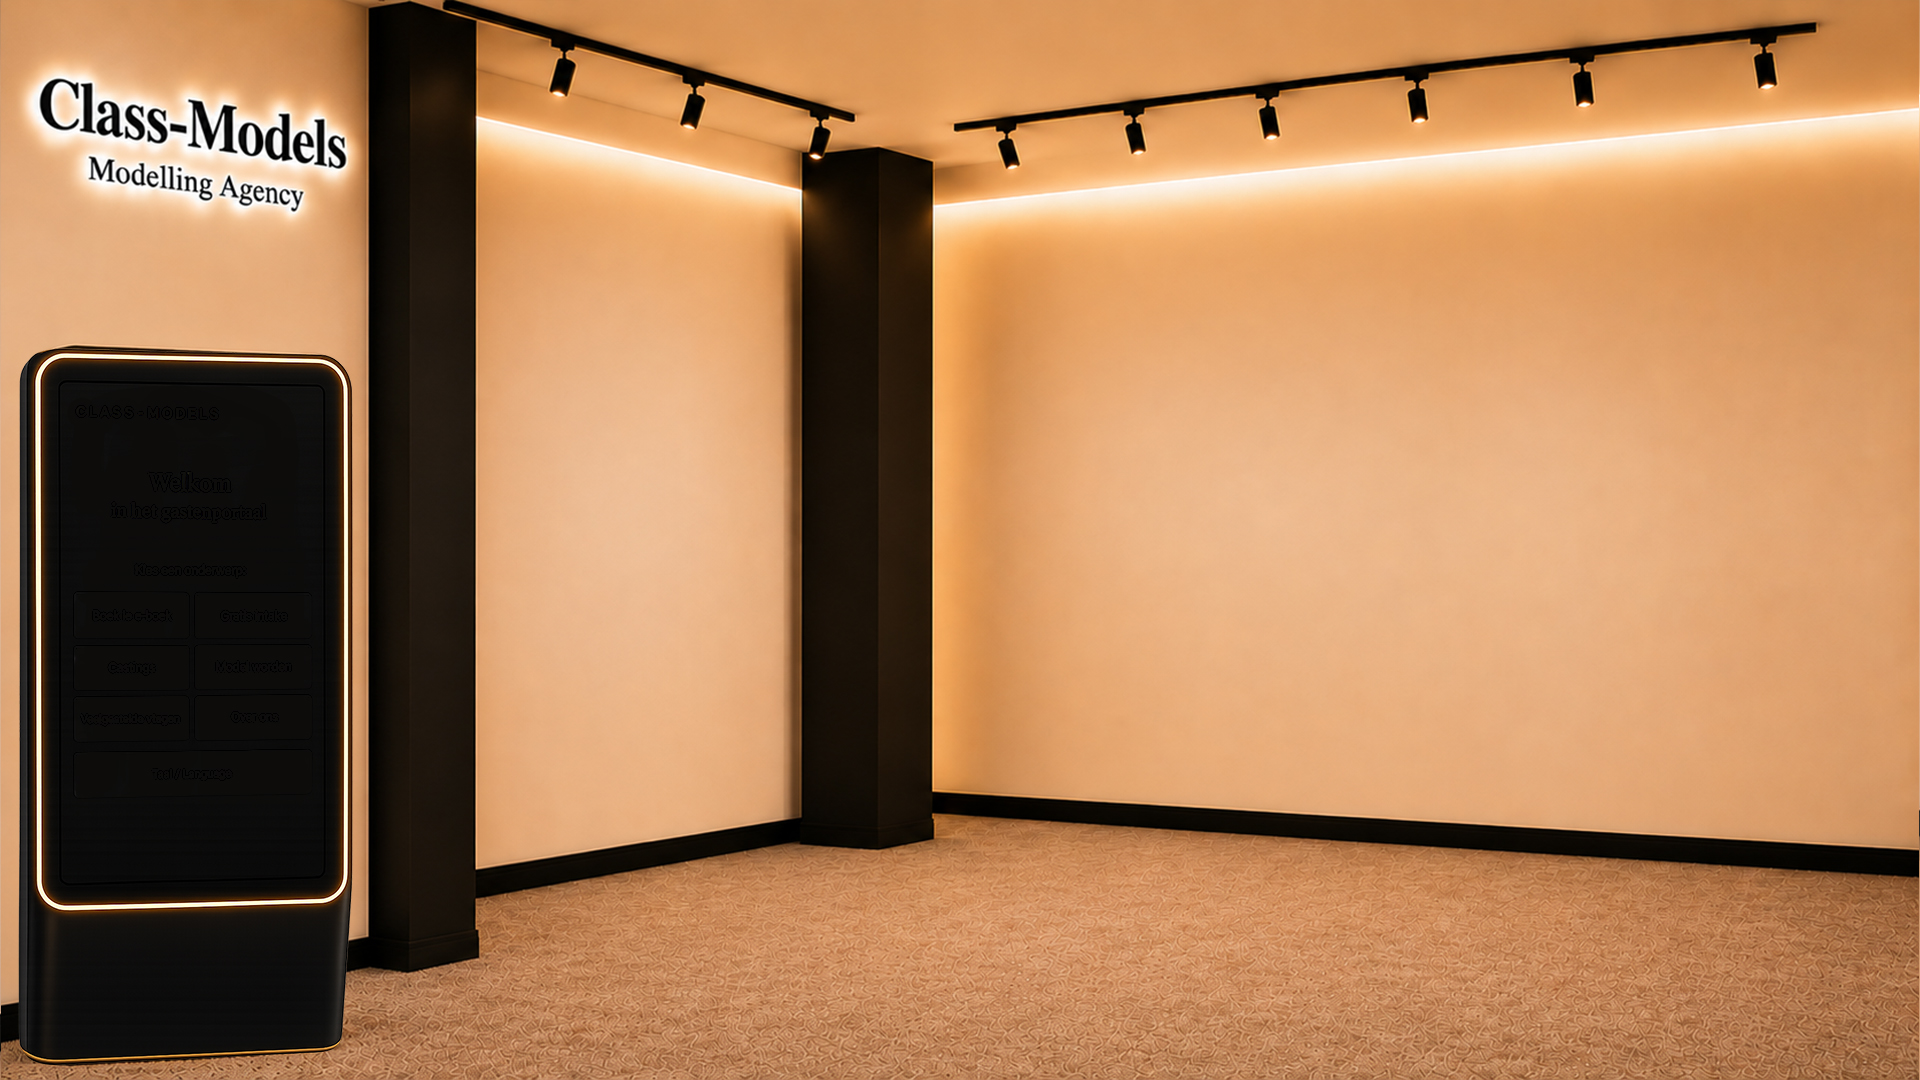
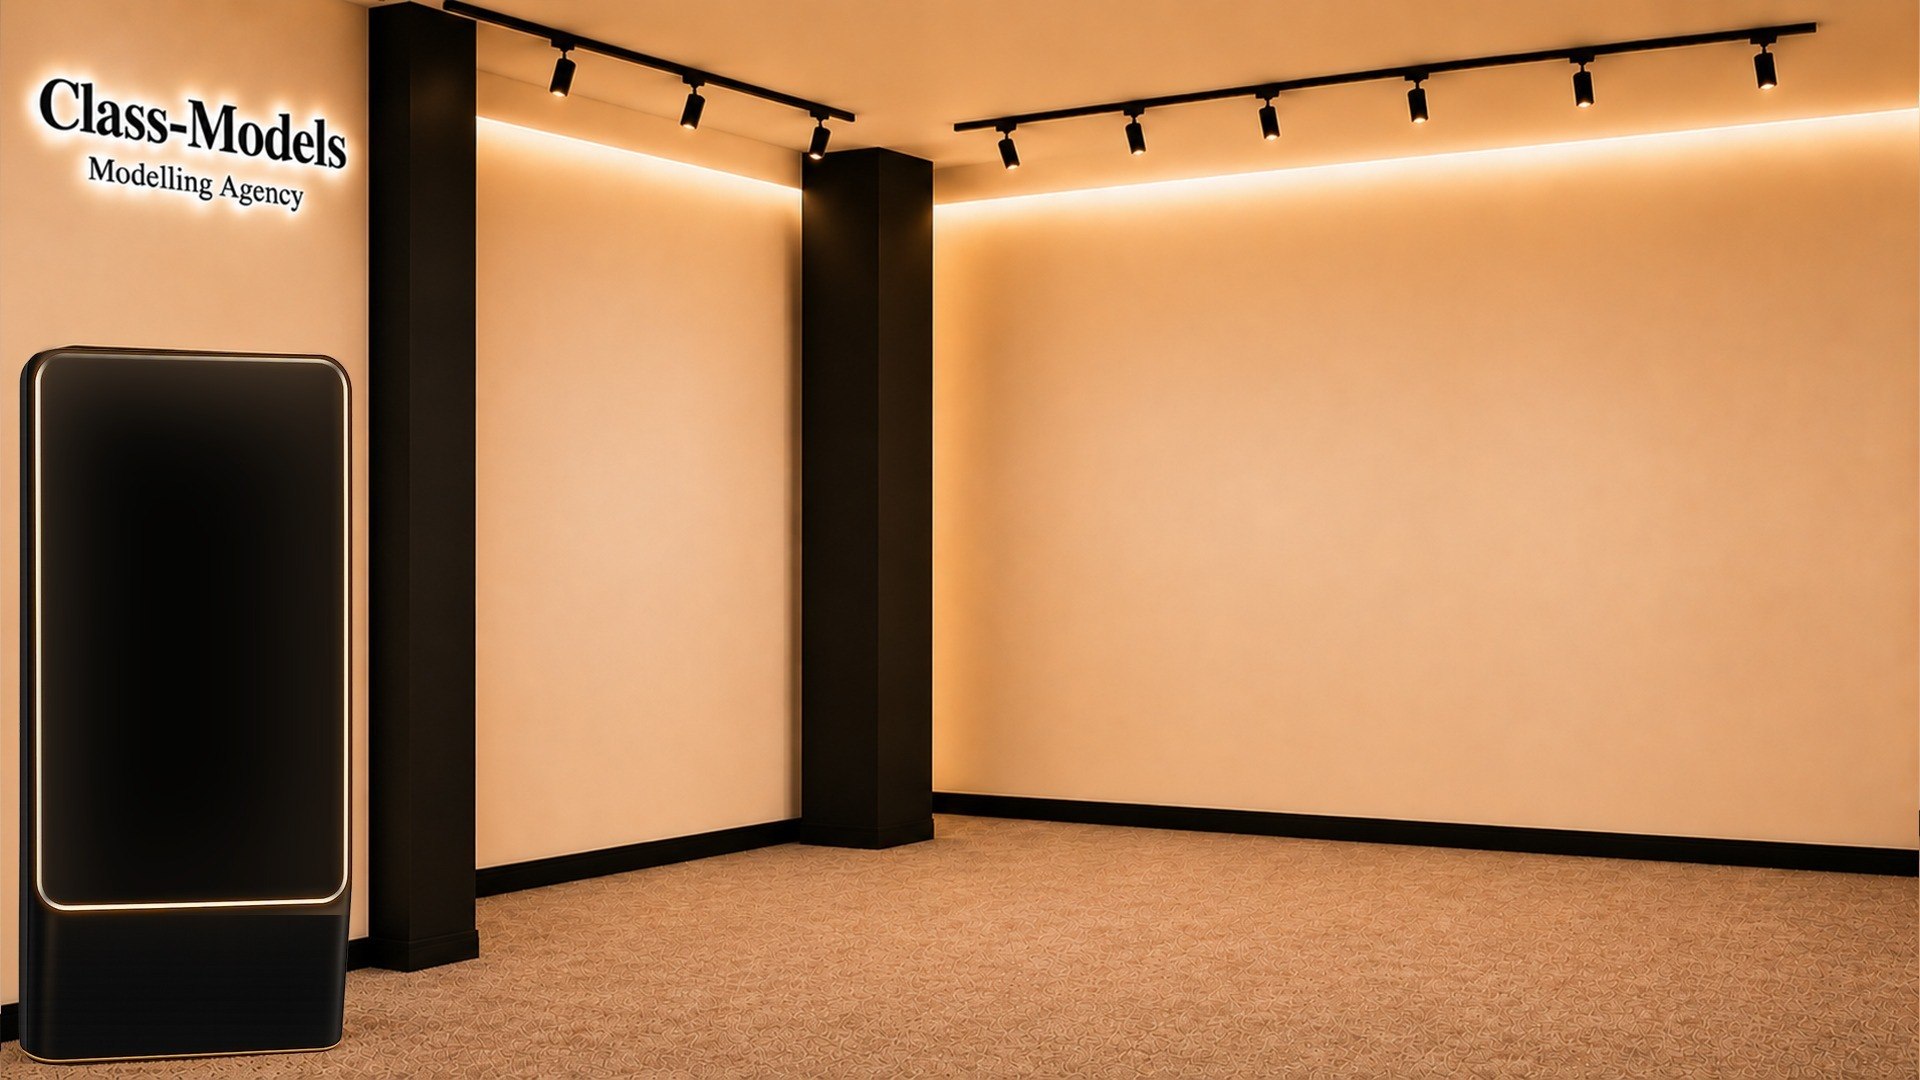
Deskmenu: achtergrond achter de knoppen volledig doorzichtig (geen zwarte hoeken meer over de gouden rand) en het gouden bovenlijntje op de actieve knop verwijderd, alleen goudkleurige tekst blijft; spooktekst op het kioskscherm in de achtergrondfoto weggewerkt

Changed region(s): [[0.0, 0.3056, 0.1875, 0.3972], [0.0, 0.6111, 0.0312, 0.825], [0.1562, 0.7944, 0.1875, 0.8556]]

diff --git a/apps/web/src/components/model-portal/ShowroomDeskMenu.tsx b/apps/web/src/components/model-portal/ShowroomDeskMenu.tsx
@@ -86,10 +86,9 @@ export function ShowroomDeskMenu({
           transform: quadMatrix3d(MENU_W, MENU_H, MENU_QUAD),
           transformOrigin: '0 0',
           pointerEvents: 'auto',
-          // Doorschijnend: het zwarte scherm van de kiosk zelf blijft zichtbaar;
-          // de grote hoekradius volgt de ronde schermhoeken zodat er niets uitsteekt.
-          background: 'rgba(11,10,10,0.93)',
-          borderRadius: 84,
+          // Volledig doorzichtig: het zwarte kioskscherm uit de foto blijft de
+          // achtergrond, zodat er niets over de gouden rand kan uitsteken.
+          background: 'transparent',
           padding: '56px 46px 44px',
           display: 'flex',
           flexDirection: 'column',
@@ -141,9 +140,6 @@ export function ShowroomDeskMenu({
                     borderRadius: 12,
                     background: BTN_BG,
                     ...BTN_EDGES,
-                    ...(active
-                      ? { borderTop: '1px solid rgba(233,199,128,0.55)' }
-                      : null),
                   }}
                   onMouseEnter={(e) => {
                     e.currentTarget.style.background = BTN_BG_HOVER;
